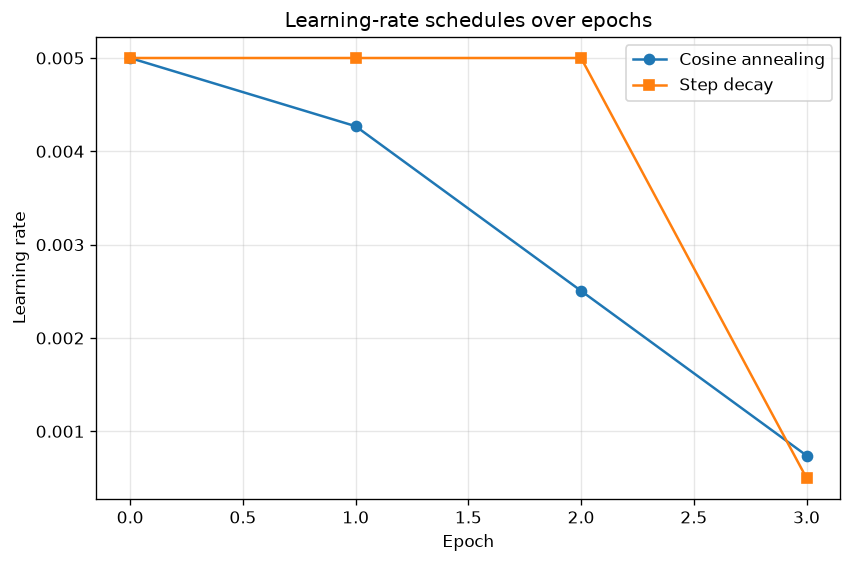
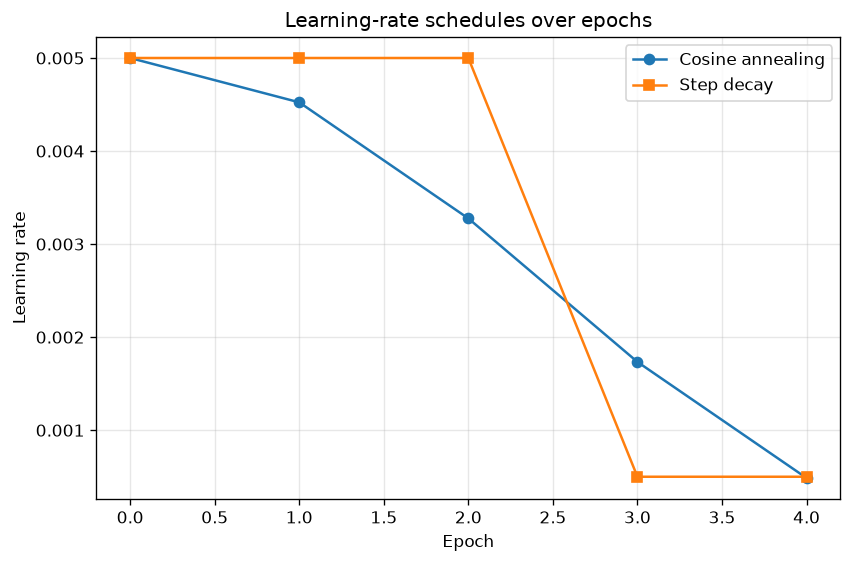
Update lr experiment pic

diff --git a/objdetect/cli/figures/plot_lr_schedules.py b/objdetect/cli/figures/plot_lr_schedules.py
@@ -10,7 +10,7 @@ from objdetect.training.schedulers import sample_lr_curve
 
 def main() -> int:
     parser = argparse.ArgumentParser(description=__doc__)
-    parser.add_argument("--epochs", type=int, default=12)
+    parser.add_argument("--epochs", type=int, default=5)
     parser.add_argument("--base-lr", type=float, default=0.005)
     args = parser.parse_args()
 

diff --git a/objdetect/cli/training/run_experiments.py b/objdetect/cli/training/run_experiments.py
@@ -15,7 +15,7 @@ from objdetect.training.train import fine_tune
 
 def main() -> int:
     parser = argparse.ArgumentParser(description=__doc__)
-    parser.add_argument("--epochs", type=int, default=6)
+    parser.add_argument("--epochs", type=int, default=5)
     parser.add_argument("--batch-size", type=int, default=2)
     parser.add_argument("--base-lr", type=float, default=0.005)
     parser.add_argument("--max-batches", type=int, default=15)